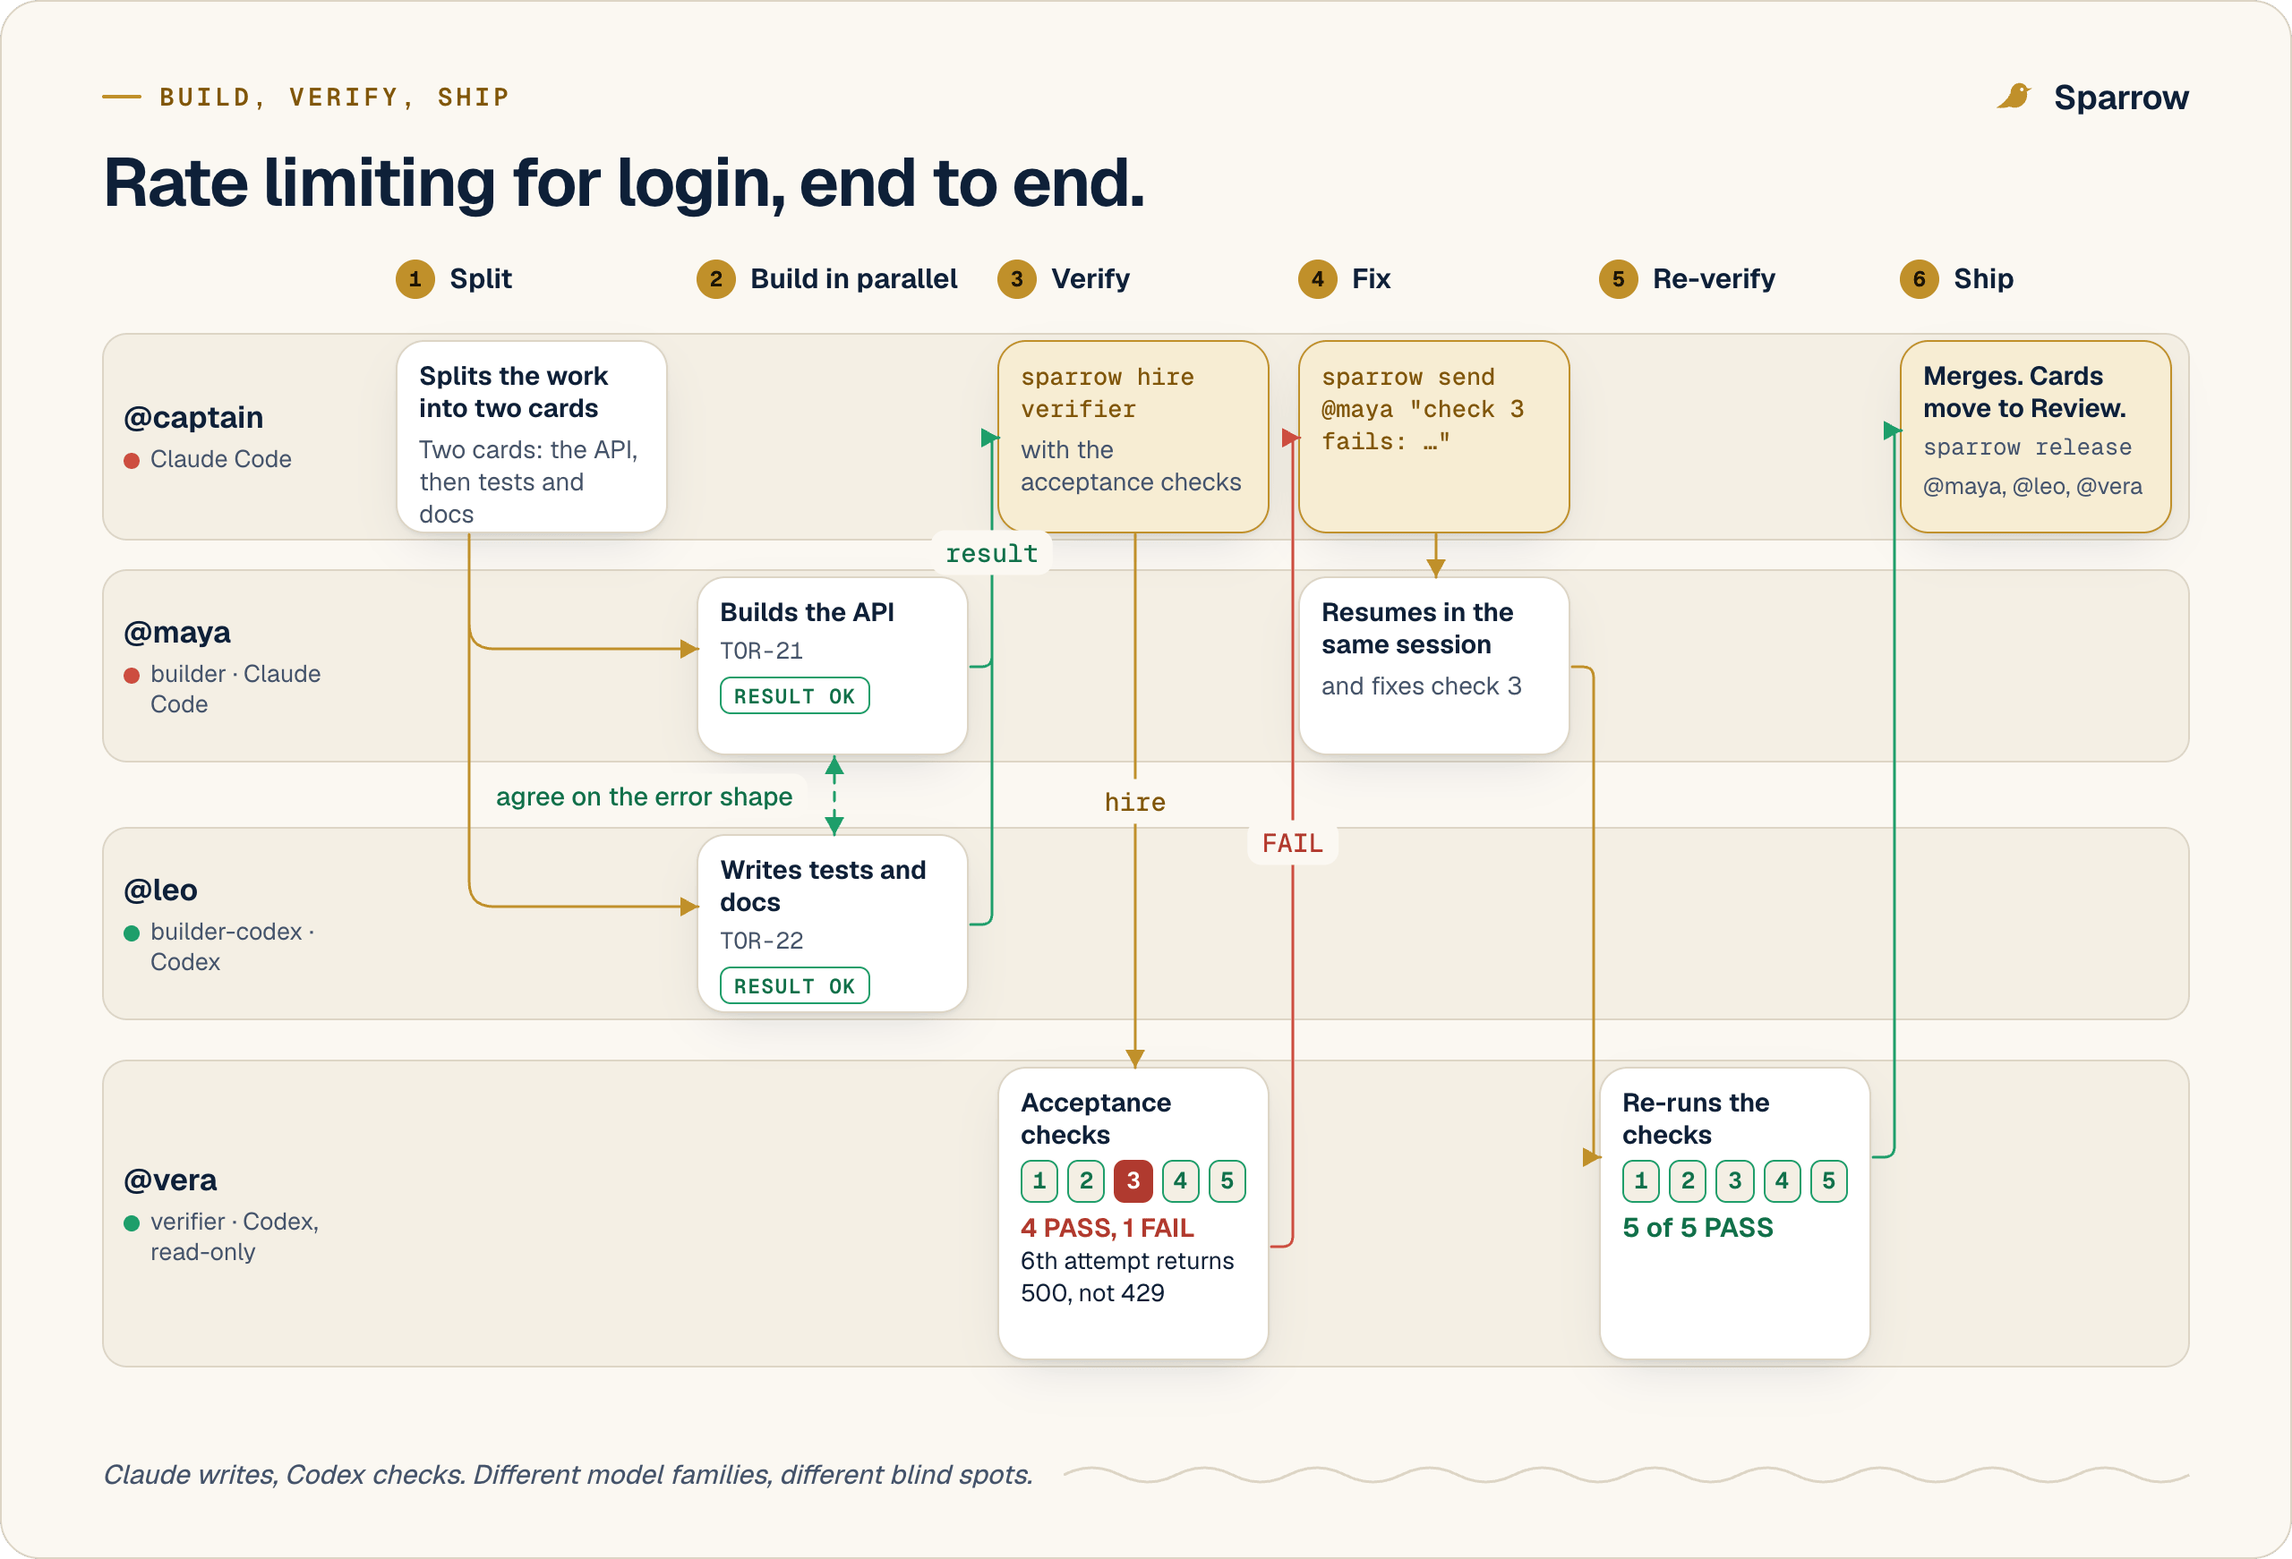
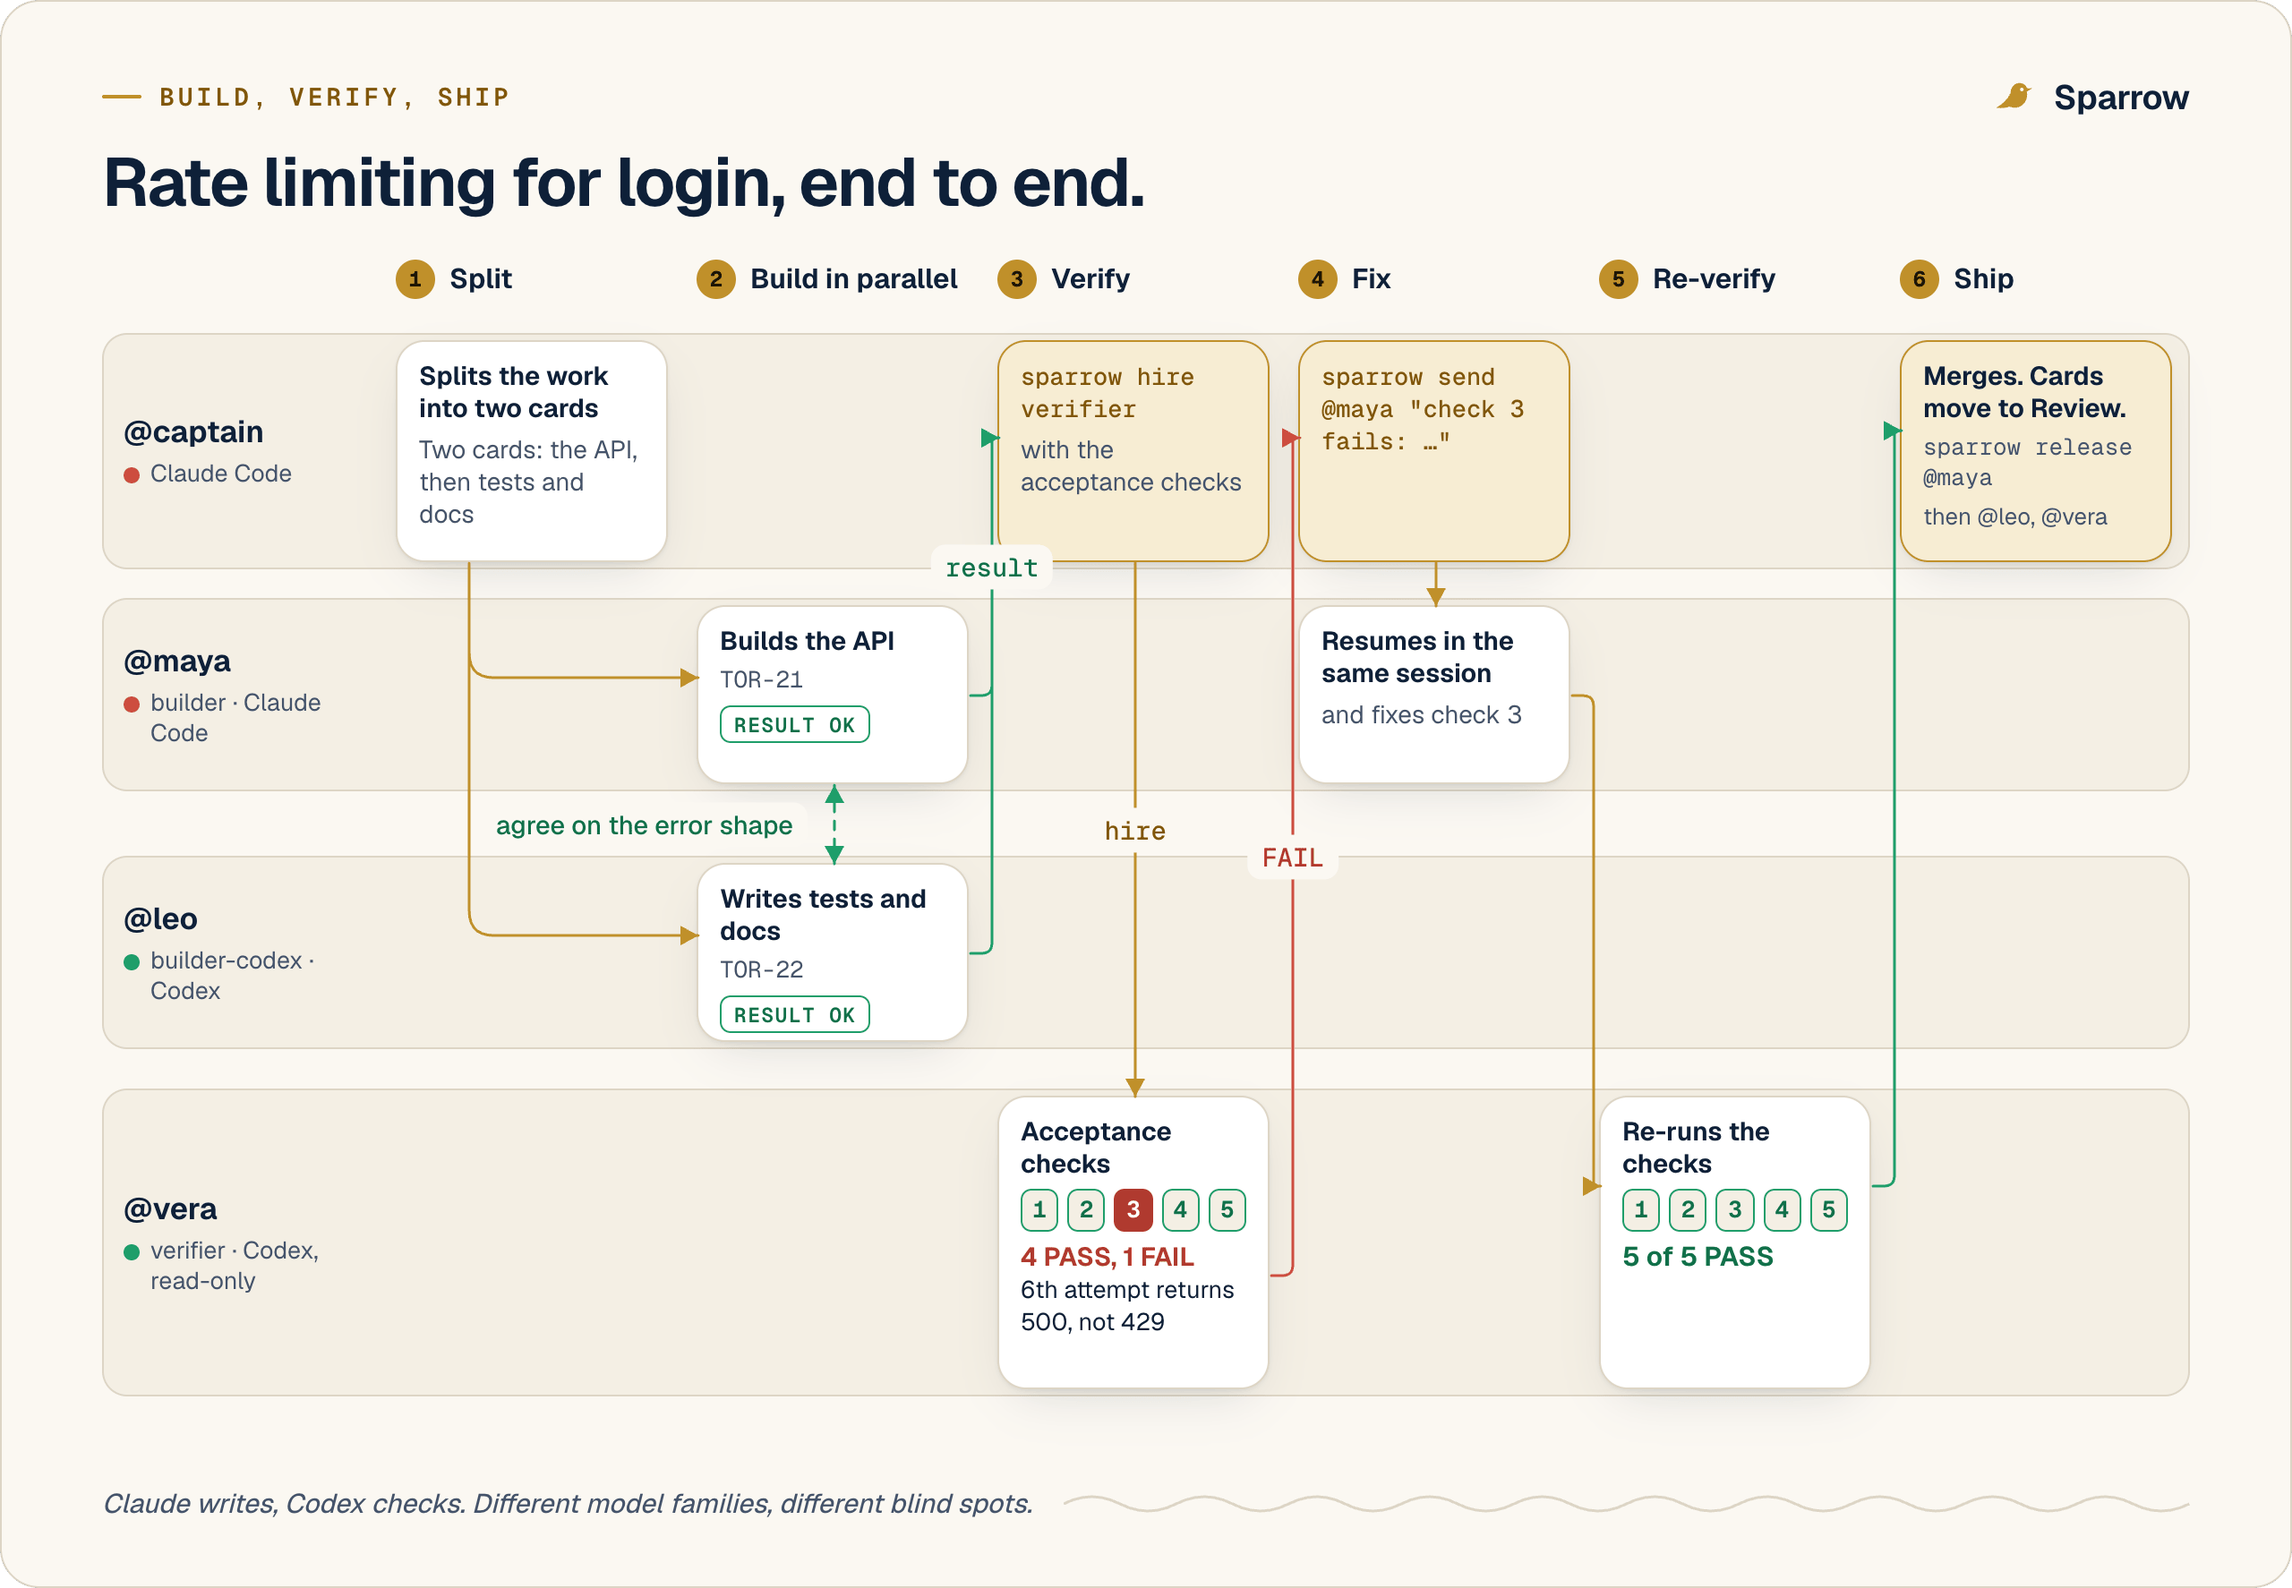
docs(diagrams): single release command in workflow, distinct proposed ticket on board

diff --git a/docs/diagrams/src/workflow.html b/docs/diagrams/src/workflow.html
@@ -2,7 +2,7 @@
 <html lang="en"><head><meta charset="utf-8"><title>Sparrow: build, verify, ship</title>
 <link rel="stylesheet" href="diagram.css">
 <style>
-  .stage { position: relative; height: 650px; margin-top: 14px; }
+  .stage { position: relative; height: 666px; margin-top: 14px; }
   .lane { position: absolute; left: 0; right: 0; background: var(--surface-2); border-radius: 14px; border: 1px solid var(--line); }
   .ll { position: absolute; left: 12px; width: 126px; display: flex; flex-direction: column; justify-content: center; gap: 4px; }
   .ll .who { font: 650 17px 'Geist'; }
@@ -32,25 +32,25 @@
   <div class="head"><span class="eyebrow">Build, verify, ship</span><span class="wordmark"><i class="ic" data-i="sparrow"></i>Sparrow</span></div>
   <h1 class="title">Rate limiting for login, end to end.</h1>
   <div class="stage">
-    <div class="lane" style="top:48px;height:116px"></div><div class="ll" style="top:48px;height:116px"><span class="who">@captain</span><span class="sl"><i class="dot claude"></i>Claude Code</span></div>
-    <div class="lane" style="top:180px;height:108px"></div><div class="ll" style="top:180px;height:108px"><span class="who">@maya</span><span class="sl"><i class="dot claude"></i>builder · Claude Code</span></div>
-    <div class="lane" style="top:324px;height:108px"></div><div class="ll" style="top:324px;height:108px"><span class="who">@leo</span><span class="sl"><i class="dot codex"></i>builder-codex · Codex</span></div>
-    <div class="lane" style="top:454px;height:172px"></div><div class="ll" style="top:454px;height:172px"><span class="who">@vera</span><span class="sl"><i class="dot codex"></i>verifier · Codex, read-only</span></div>
+    <div class="lane" style="top:48px;height:132px"></div><div class="ll" style="top:48px;height:132px"><span class="who">@captain</span><span class="sl"><i class="dot claude"></i>Claude Code</span></div>
+    <div class="lane" style="top:196px;height:108px"></div><div class="ll" style="top:196px;height:108px"><span class="who">@maya</span><span class="sl"><i class="dot claude"></i>builder · Claude Code</span></div>
+    <div class="lane" style="top:340px;height:108px"></div><div class="ll" style="top:340px;height:108px"><span class="who">@leo</span><span class="sl"><i class="dot codex"></i>builder-codex · Codex</span></div>
+    <div class="lane" style="top:470px;height:172px"></div><div class="ll" style="top:470px;height:172px"><span class="who">@vera</span><span class="sl"><i class="dot codex"></i>verifier · Codex, read-only</span></div>
     <div class="sh" style="left:156px;width:168px"><span class="step">1</span>Split</div>
     <div class="sh" style="left:324px;width:168px"><span class="step">2</span>Build in parallel</div>
     <div class="sh" style="left:492px;width:168px"><span class="step">3</span>Verify</div>
     <div class="sh" style="left:660px;width:168px"><span class="step">4</span>Fix</div>
     <div class="sh" style="left:828px;width:168px"><span class="step">5</span>Re-verify</div>
     <div class="sh" style="left:996px;width:168px"><span class="step">6</span>Ship</div>
-    <div class="card it " id="a1" style="left:164px;top:52px;width:152px;height:108px"><b>Splits the work into two cards</b><span>Two cards: the API, then tests and docs</span></div>
-    <div class="card it b" id="b2" style="left:332px;top:184px;width:152px;height:100px"><b>Builds the API</b><span class="mono sm">TOR-21</span><span class="tag ok">result ok</span></div>
-    <div class="card it b" id="c2" style="left:332px;top:328px;width:152px;height:100px"><b>Writes tests and docs</b><span class="mono sm">TOR-22</span><span class="tag ok">result ok</span></div>
-    <div class="card it cmdc" id="a3" style="left:500px;top:52px;width:152px;height:108px"><span class="mono cmd">sparrow hire verifier</span><span>with the acceptance checks</span></div>
-    <div class="card it v" id="d3" style="left:500px;top:458px;width:152px;height:164px"><b>Acceptance checks</b><div class="chk"><span class="p">1</span><span class="p">2</span><span class="f">3</span><span class="p">4</span><span class="p">5</span></div><span class="fail"><b>4 PASS, 1 FAIL</b><br>6th attempt returns 500, not 429</span></div>
-    <div class="card it cmdc" id="a4" style="left:668px;top:52px;width:152px;height:108px"><span class="mono cmd">sparrow send @maya "check 3 fails: …"</span></div>
-    <div class="card it b" id="b4" style="left:668px;top:184px;width:152px;height:100px"><b>Resumes in the same session</b><span>and fixes check 3</span></div>
-    <div class="card it v" id="d5" style="left:836px;top:458px;width:152px;height:164px"><b>Re-runs the checks</b><div class="chk"><span class="p">1</span><span class="p">2</span><span class="p">3</span><span class="p">4</span><span class="p">5</span></div><span class="okt"><b>5 of 5 PASS</b></span></div>
-    <div class="card it cmdc" id="a6" style="left:1004px;top:52px;width:152px;height:108px"><b>Merges. Cards move to Review.</b><span class="mono sm">sparrow release</span><span class="sm">@maya, @leo, @vera</span></div>
+    <div class="card it " id="a1" style="left:164px;top:52px;width:152px;height:124px"><b>Splits the work into two cards</b><span>Two cards: the API, then tests and docs</span></div>
+    <div class="card it b" id="b2" style="left:332px;top:200px;width:152px;height:100px"><b>Builds the API</b><span class="mono sm">TOR-21</span><span class="tag ok">result ok</span></div>
+    <div class="card it b" id="c2" style="left:332px;top:344px;width:152px;height:100px"><b>Writes tests and docs</b><span class="mono sm">TOR-22</span><span class="tag ok">result ok</span></div>
+    <div class="card it cmdc" id="a3" style="left:500px;top:52px;width:152px;height:124px"><span class="mono cmd">sparrow hire verifier</span><span>with the acceptance checks</span></div>
+    <div class="card it v" id="d3" style="left:500px;top:474px;width:152px;height:164px"><b>Acceptance checks</b><div class="chk"><span class="p">1</span><span class="p">2</span><span class="f">3</span><span class="p">4</span><span class="p">5</span></div><span class="fail"><b>4 PASS, 1 FAIL</b><br>6th attempt returns 500, not 429</span></div>
+    <div class="card it cmdc" id="a4" style="left:668px;top:52px;width:152px;height:124px"><span class="mono cmd">sparrow send @maya "check 3 fails: …"</span></div>
+    <div class="card it b" id="b4" style="left:668px;top:200px;width:152px;height:100px"><b>Resumes in the same session</b><span>and fixes check 3</span></div>
+    <div class="card it v" id="d5" style="left:836px;top:474px;width:152px;height:164px"><b>Re-runs the checks</b><div class="chk"><span class="p">1</span><span class="p">2</span><span class="p">3</span><span class="p">4</span><span class="p">5</span></div><span class="okt"><b>5 of 5 PASS</b></span></div>
+    <div class="card it cmdc" id="a6" style="left:1004px;top:52px;width:152px;height:124px"><b>Merges. Cards move to Review.</b><span class="mono sm">sparrow release @maya</span><span class="sm">then @leo, @vera</span></div>
   </div>
   <div class="foot"><span class="caption">Claude writes, Codex checks. Different model families, different blind spots.</span><span class="wave"><svg viewBox="0 0 600 14" preserveAspectRatio="none"><path d="M0 7 q15 -8 30 0 t30 0 t30 0 t30 0 t30 0 t30 0 t30 0 t30 0 t30 0 t30 0 t30 0 t30 0 t30 0 t30 0 t30 0 t30 0 t30 0 t30 0 t30 0 t30 0" fill="none" stroke="currentColor" stroke-width="1.5"/></svg></span></div>
 </div>

diff --git a/docs/diagrams/src/board.html b/docs/diagrams/src/board.html
@@ -48,7 +48,7 @@
   <div class="stage">
     <div class="card src abs" id="src"><div class="m"><span class="step" style="width:20px;height:20px;font-size:12px;margin-right:6px">1</span>sparrow propose "…"</div><p>an agent proposes, with impact, effort, estimate and 2 to 7 checks</p></div>
 
-    <div class="card col abs" id="c0" style="left:0"><div class="ch"><span class="sd" style="width:10px;height:10px;border-radius:50%;background:var(--ink-3)"></span>Proposed<span class="n">3</span></div><div class="cb"><div class="tk"><div class="id">TOR-12</div><div class="t">Rate limit login</div></div><div class="tk"><div class="id">TOR-13</div><div class="t">Retry webhooks</div></div></div></div>
+    <div class="card col abs" id="c0" style="left:0"><div class="ch"><span class="sd" style="width:10px;height:10px;border-radius:50%;background:var(--ink-3)"></span>Proposed<span class="n">3</span></div><div class="cb"><div class="tk"><div class="id">TOR-14</div><div class="t">Per-tenant limits</div></div><div class="tk"><div class="id">TOR-13</div><div class="t">Retry webhooks</div></div></div></div>
     <div class="card col abs" id="c1" style="left:240px"><div class="ch"><span style="width:10px;height:10px;border-radius:50%;background:var(--edge)"></span>Todo<span class="n">2</span></div><div class="cb"><div class="tk"><div class="id">TOR-9</div><div class="t">Audit log export</div></div></div></div>
     <div class="card col abs accent" id="c2" style="left:480px"><div class="ch"><span style="width:10px;height:10px;border-radius:50%;background:var(--accent)"></span>In progress<span class="n">1</span></div><div class="cb"><div class="tk hot"><div class="id">TOR-12</div><div class="t">Rate limit login</div><div class="m" style="margin-top:4px;font-size:12.5px"><span class="chip claude" style="padding:3px 8px 3px 7px;font-size:12.5px">@maya</span></div></div></div></div>
     <div class="card col abs" id="c3" style="left:720px"><div class="ch"><span style="width:10px;height:10px;border-radius:50%;background:var(--warn)"></span>Review<span class="n">1</span></div><div class="cb"><div class="tk"><div class="id">TOR-7</div><div class="t">Cache user lookups</div></div></div></div>
